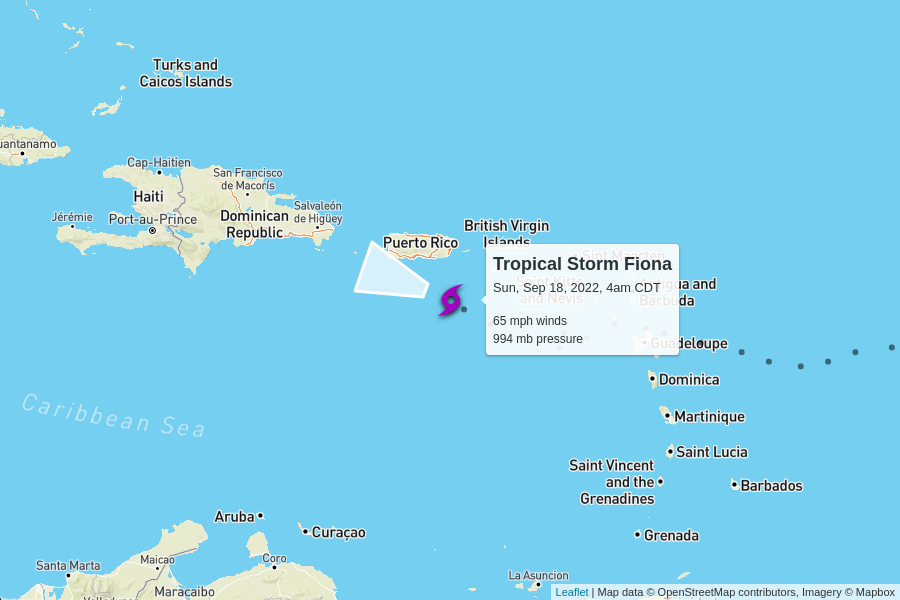
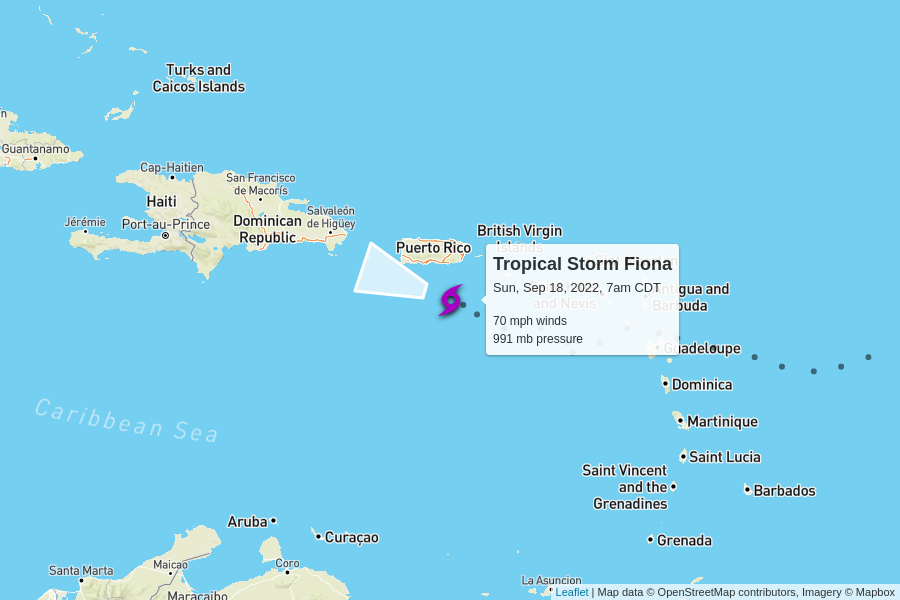
automatic update

diff --git a/docs/index.html b/docs/index.html
@@ -100,7 +100,7 @@
         <td colspan="6" class="storm category-0" >
           <h2>
             Tropical Storm Fiona
-            <p class="updated">last updated <span data-time>2022-09-18T09:00:00.000Z</span></p>
+            <p class="updated">last updated <span data-time>2022-09-18T12:00:00.000Z</span></p>
           </h2>
         </td>
       </tr>
@@ -115,8 +115,8 @@
       </tr>
       <tr>
         <td class="spacer"></td>
-        <td>65 mph</td>
-        <td>994 mb</td>
+        <td>70 mph</td>
+        <td>991 mb</td>
         <td>
           8 mph to the west-northwest
           <br/>
